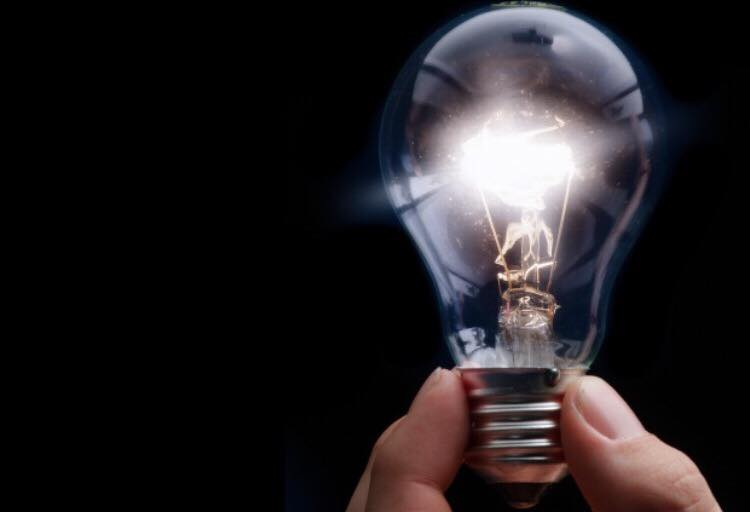
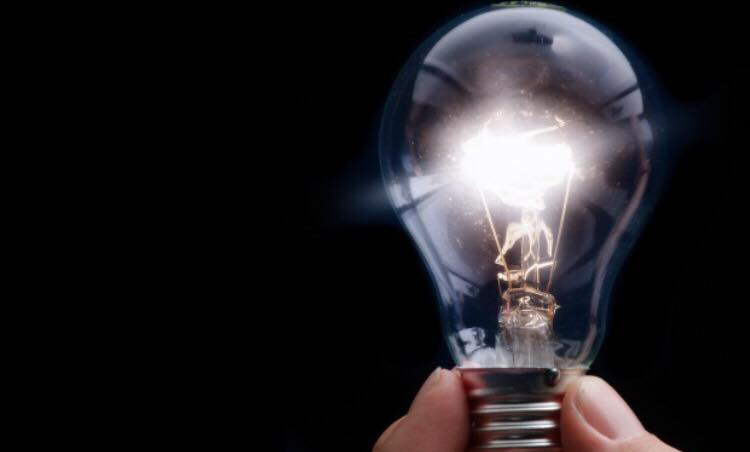
nav menu bgc grey, fader narrow fix

Changed region(s): [[0.46, 0.0, 0.9813, 1.0], [0.644, 0.1239, 0.6747, 0.1549], [0.4907, 0.1858, 0.5213, 0.2168]]

diff --git a/index.html b/index.html
@@ -38,9 +38,9 @@
 </head>
 
 <body>
-	<div class="fader"></div>
+	
 	<!-- ======================== HEADER START ================================================== -->
-	<header class="container-fluid">
+	<header class="">
 		<!--container-fluid may allow the header background stretch over the 
 	whole page width -->
 		<div class="top-header">
@@ -51,6 +51,7 @@
 			</div>
 		</div>
 		<div class="mid-header">
+			<div class="fader"></div>
 			<div class="container">
 				<div class="row">
 					<div class="col-sm-3">
@@ -59,9 +60,8 @@
 				</div>
 			</div>
 		</div>
-		<div class="bottom-header">
+		<div class="bottom-header container-fluid">
 			<div class="container">
-
 				<nav>
 					<div class="row">
 						<div class="col-sm-10 offset-sm-1">

diff --git a/scss/main.scss b/scss/main.scss
@@ -5,14 +5,18 @@
 .fader{
     position: absolute;
     width: 100vw;
-    height: 100vh;
+    height: 60vh;
 }
 header{
     .bottom-header{
         text-align: center;
+        padding-top: 1px;
+        padding-bottom: 20px;
+        background-color: #eaeaea;
         
         nav{
-            margin-top: 10vh;
+            margin-top: 70vh;
+            padding-bottom: 30px;
             .link_2 {
             
                 padding: 7px;

diff --git a/css/main.css b/css/main.css
@@ -4,15 +4,19 @@
 .fader {
   position: absolute;
   width: 100vw;
-  height: 100vh;
+  height: 60vh;
 }
 
 header .bottom-header {
   text-align: center;
+  padding-top: 1px;
+  padding-bottom: 20px;
+  background-color: #eaeaea;
 }
 
 header .bottom-header nav {
-  margin-top: 10vh;
+  margin-top: 70vh;
+  padding-bottom: 30px;
 }
 
 header .bottom-header nav .link_2 {

diff --git a/js/backgroundImage.js b/js/backgroundImage.js
@@ -6,7 +6,8 @@ $(document).ready(function () {
    image.css({
        backgroundImage: 'url('+ images[1]+')',
        backgroundRepeat: 'no-repeat',
-       backgroundSize: '100%'
+       backgroundSize: '100%',
+       backgroundPosition: 'center bottom'
    });
    let interval = setInterval(() => {
       image.fadeOut(500, ()=>{
